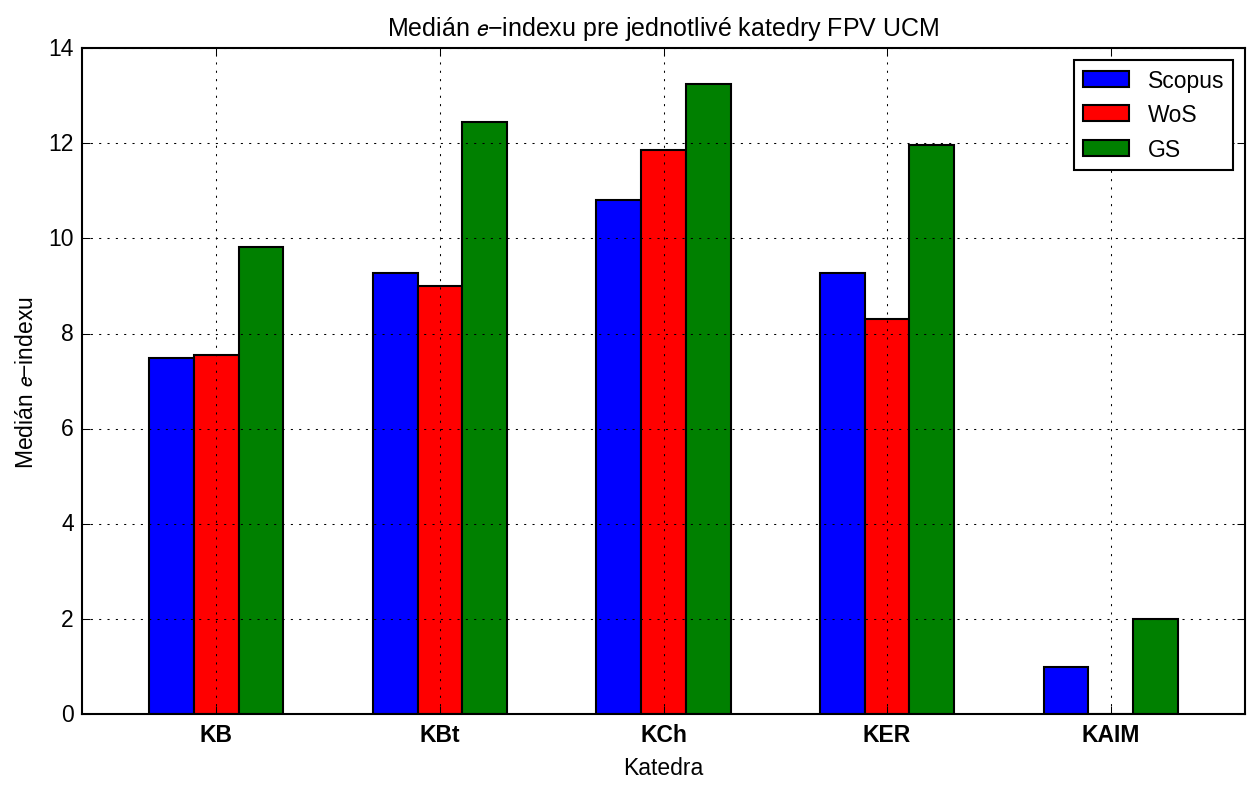
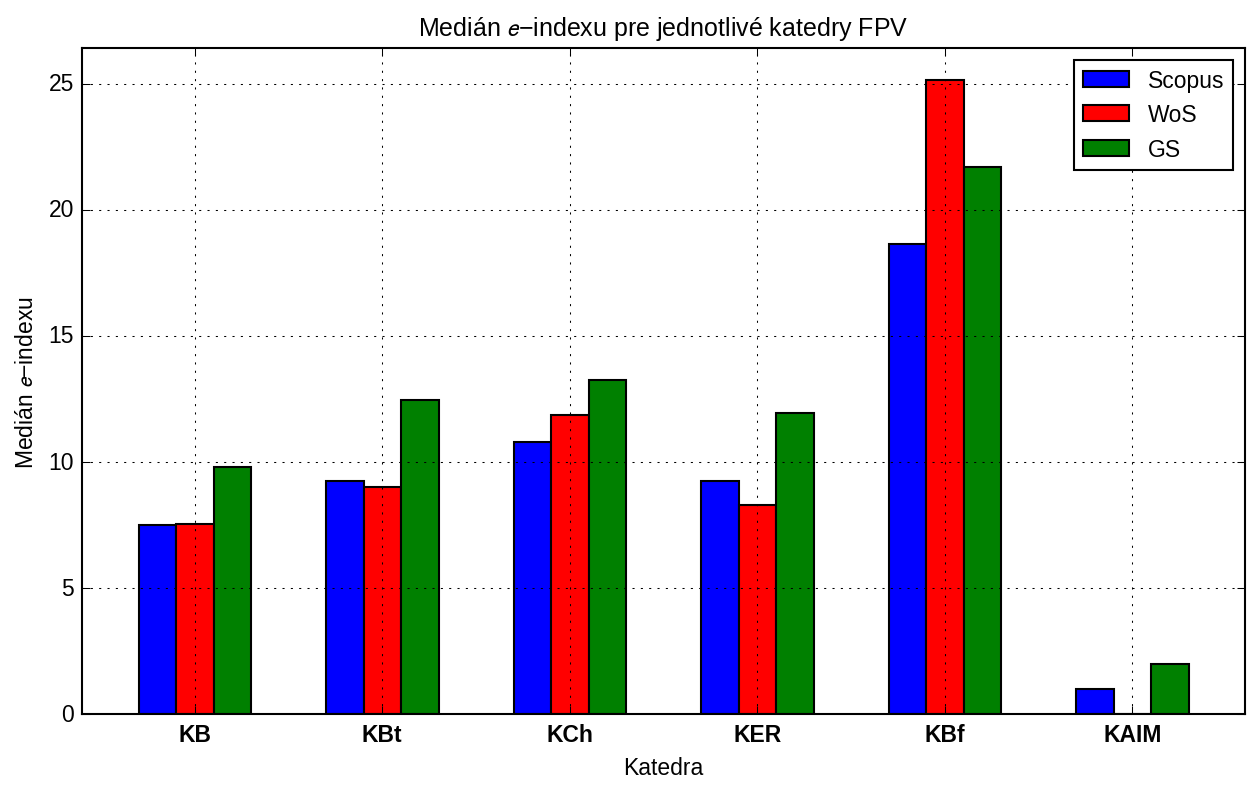
Add corrected plots. Add new table
Results of Katedra biofyziky were missing in all plots.
It was caused by human error.

diff --git a/kapitola4.tex b/kapitola4.tex
@@ -21,7 +21,8 @@ V stĺpcoch $P$ a $c$ uvádzame sumu všetkých článkov (Obrázok
 \ref{fig:publications.plot}) a citácií (Obrázok \ref{fig:citations.plot})
 v dátom súbore.  Tieto informácie uvádzame pre ilustráciu, pretože Veľkosti
 dátových súborov, z ktorých dane indikátory boli počítané, určujú presnosť
-štatistiky. 
+štatistiky. Všetky grafy neobsahujú výsledné hodnoty Katedry odbornej
+jazykovej prípravy, pretože boli príliš nízke, z dôvodu nedostatku dát.
 
 Nasleduje artimetický priemer a medián počtu dokumentov na autora (graf
 porovnania mediánov je na Obrázku \ref{fig:p/a.plot}).  Pre ilustráciu sme k
@@ -55,7 +56,7 @@ na dokument nie su vhodné na scientometrickú analýzu tohoto typu.  Zhangov
 $e$-index  je modifikácia $h$-indexu, ktorá je citlivá na veľmi citované články
 v malom súbore publikácií (viď. pokapitola \ref{sec:e-index}).  Na základe
 výsledkov Katedry biofyziky (Tabuľka \ref{tab:2-staff.results}) môžeme názorne
-vidieť, že mediány $e$-indexu sú rádovo väčšie od ostatných (Graficky
+vidieť, že mediány $e$-indexu sú rádovo väčšie od ostatných (graficky
 znáznornené na Obrázku \ref{fig:e-index.plot}).
 
 Hodnoty citačných indikátorov $h$-index a $g$-index sú uvedené v tabuľke
@@ -66,17 +67,46 @@ niekoľko veľmi citovaných pracovníkov oproti ostatným, ktorí sú minimáln
 citovaní.
 
 \citet{Kazakis2015} scientometricky porovnával katedry chemického inžinierstva
-troch gréckych univerzít (v Aténach, v Solúne a Patre). Dáta čerpal
-z citačného registru Scopus. V Tabuľke \ref{tab:kazakis.results} sme porovnali naše výsledky s Kazakisovymi. my sme výsledky porovnávali zo všetkých použitých
-citačných registrov. 
+troch gréckych univerzít (Atény, Solún a Patra).  V Tabuľke
+\ref{tab:kazakis.results} sme porovnali naše výsledky s Kazakisovymi. Napriek
+tomu, že gréci čerpali iba z citačného registru Scopus, my sme porovnali
+indikátory zo všetkých použitých citačných registrov. Na prvý pohľad si
+všimneme rozdiel v počte pracovníkov (v tabuľke označené ako $n$).  Grécke
+katedry zahrňujú ďaleko viacej ľudí (katedra v Aténach dokonca až 72
+akademikov) než katedra Chémie s 18 pracovníkmi.  Hodnoty priemerného $h$-index
+a $g$-indexu katedry Chémie sú  zhruba o tretinu nižšie než gréckych katedier.
+Veľký rozdiel predstavujú príliš vysoké štandardné odchýlky (ktoré skoro
+dosahujú hodnotu priemeru). Gréci ich majú nižšie.  Myslíme si, že lepší
+indikátorom sú mediány, pretože MAD hodnoty sú nižšie než smerodajné odchýlky.
+V tomto prípade sú mediány $h$-index a $g$-indexu katedry Chémie okolo 100\,\%
+nižšie než gréckych katedier. Ale ak zoberieme do úvahy, že katedra Chémie raz
+toľko menej zamestnancov, tak výsledok je očakávateľný.
 
+\citet{Lazaridis2010} vypočítal priemerný $h$-index gréckych chemických
+katedier prestížnych gréckych univerzít (Krétska, Patraska, Solúnska,
+Ioanninanska, a Aténska).  Dáta čerpal z citačného registru WoS, pričom na
+výpočet $h$-index používal webové rozhranie WoS, alebo ho počítal ručne. V
+Tabuľke \ref{tab:lazaridis.results} sú porovnané priemerné $h$-index katedier
+spomenutých gréckych univerzít a naše výsledky pre Katedru Chémie. Síce
+priemerný $h$-index gréckych katedier je porovnateľný s KCh (s výnimkou z
+Krétskej univerzity), ale dátový súbor je výrazne menší. Zdá sa nám
+nepravdepodobné aby taká inštitúcia mala také male množstvo publikácií.  Autor
+o získavaní dát píše iba o problémami s gréckymi menami v anglickej databáze
+WoS. V neposlednom rade nesmieme zabúdať, že autor neuvádza šmerodajnú odchýlku
+a je nám dobre známe, že distribúcia citačných indikátorov nemusí byť podobná
+normálnemu rozdeleniu. V prípade nenormálnej distribúcie sa použitie
+aritmetického priemeru sa stáva nevhodným.
 
-Vypočítal hodnoty Pracoval so väčšou vzorkov zamestancov (136 zamestnancov)
-tým pádom 
+Na grafickom porovaní mediánov $h$-index a $g$-indexu katedier FPV môžeme vidieť
+vyrazný rozdiel medzi Katedrov biofyziky a ostatnými katedrami, najmä Katedry 
+Chémie, ktorá je výrazne zaostáva za KBf napriek najvyšiemu počtu publikácií
+a citácií (Obrázkoky \ref{fig:publications.plot} a \ref{fig:citations.plot}
+
 
 \begin{table}
   \label{tab:kazakis.results}
-  \caption{Porovnanie citačných indikátorov Katedry chémie a katedier chemického inžinierstva troch gréckych univerzít \citep{Kazakis2015}}
+  \caption[Porovnanie Katedry chémie a katedier chemického inžinierstva troch gréckych univerzít]
+  {Porovnanie citačných indikátorov Katedry chémie a katedier chemického inžinierstva troch gréckych univerzít \citep{Kazakis2015}}
 \begin{tabular}{lllllll}
 \hline
  Indikátor & Kch    &       &       & Atény & Solún & Patra \\
@@ -96,6 +126,21 @@ tým pádom
 \end{tabular}
 \end{table}
 
+\begin{table}
+  \label{tab:lazaridis.results}
+  \caption[Porovnanie Katedry chémie a chemických katedier vybraných gréckych univerzít]
+  {Porovnanie citačných indikátorov Katedry chémie a katedier chémie piatich gréckych univerzít \citep{Lazaridis2010}}
+\begin{tabular}{lllllll}
+\hline
+ Indikátor & Kch    &       &       & Kréta & Patra & Solún & Ioaninna & Atény \\
+           & Scopus & WoS   & GS    &       &       &       &          &       \\
+ P         & 1106   & 1120  & 1525  & 56    & 61    & 41    & 48       & 219   \\
+ h ave     & 11,78  & 11,94 & 13,61 & 16,6  & 12,6  & 10,4  & 10,3     & 9,0   \\
+\hline
+\end{tabular}
+\end{table}
+
+\
 \begin{table}
   \centering\small
   \caption[Hodnotenie FPV\,--\,počet publikácií na autora]{Scientometrické hodnotenie katedier FPV UCM v Trnave, (1. časť)}
@@ -402,7 +447,7 @@ tým pádom
 
 
 
-Obrázok~\ref{fig:plot.all.publications} vyjadruje grafické znázornenie množstva
+Obrázok~\ref{fig:all.publications.plot} vyjadruje grafické znázornenie množstva
 publikovaných článkov všetkými pracovníkmi Fakulty prírodných vied
 v~jednotlivých rokoch z~citačných registrov Scopus a WoS (samostatné krivky).
 Je prirodzené, že pracovníci slovenskej univerzity viac článkov publikujú
@@ -416,12 +461,12 @@ akreditačnú komisiu komisiu sú najdôležitejšie časopisy indexované vo Wo
 
 \begin{figure}
   \centering
-  \includegraphics[width=\textwidth]{plot-all-publications.png}
-  \caption{Vývoj publikačnej činnosti pracovníkov FPV UCM v~období 2000--2016.}
-  \label{fig:plot.all.publications}
+  \includegraphics[width=\textwidth]{plot-all-publications-data.png}
+  \caption{Vývoj publikačnej činnosti pracovníkov FPV v~období 2000--2016.}
+  \label{fig:all.publications.plot}
 \end{figure}
 
-Graf na Obrázku~\ref{fig:plot.all.citations} zobrazuje celkový počet citácií
+Graf na Obrázku~\ref{fig:all.citations.plot} zobrazuje celkový počet citácií
 článkov publikovaných v~danom roku.  Rozdiel v~citáciách medzi dátami z~Scopusu
 a WoS sú viditeľné hlavne už spomínanom období 2004--2010.  Extrémny rozdiel
 citácií na publikácie z~roku 2005 je spôsobený, že v~citačnom registri Scopus je
@@ -433,10 +478,10 @@ vidíme počte citácií pre rok 2015.
 
 \begin{figure}
   \centering
-  \includegraphics[width=\textwidth]{plot-all-citations.png}
-  \caption{Citovanosť článkov všetkých pracovníkov FPV UCM za obdobie
+  \includegraphics[width=\textwidth]{plot-all-citations-data.png}
+  \caption{Citovanosť článkov všetkých pracovníkov FPV za obdobie
     2000--2016.}
-  \label{fig:plot.all.citations}
+  \label{fig:all.citations.plot}
 \end{figure}
 
 \begin{longtable}[c]{lcccrcc}
